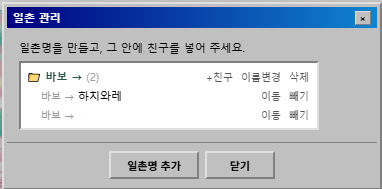
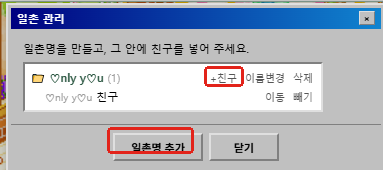
공지 캡처 교체 및 표시 추가
- 새 캡처 5장으로 교체 (중요한 버튼에 빨간 네모 표시)
- 5번 캡처를 게시판 목록으로 바꾸고 자유게시판 표시/삭제 방법 설명 추가

Claude-Session: https://claude.ai/code/session_01DkwmDqAxMrJ69m9SgcTYC1

Changed region(s): [[0.0, 0.0, 1.0, 1.0]]

diff --git a/index.html b/index.html
@@ -6224,7 +6224,7 @@
             "title": "📢 [공지] 버디버디 사용법 & 꼭 알아 둘 주의사항",
             "author": "관리자",
             "date": "2026-11-19 17:20",
-            "html": "<div class=\"notice-text\">안녕하세요, 버디버디 관리자예요 🌿\n버디버디를 쓰면서 잘 모를 만한 기능이랑 주의사항을 정리했어요.\n처음 오신 분도, 원래 쓰던 분도 한 번씩 읽어 주세요!\n\n━━━━━━━━━━━━━━━━━━━━━━\n■ 1. 비밀번호를 잊어버렸을 때를 위해 &quot;이메일 등록&quot;을 꼭 해 두세요\n━━━━━━━━━━━━━━━━━━━━━━\n▶ 메신저에서 내 사진(아바타)을 누르면 [내 정보 설정] 창이 열려요.\n▶ 아래쪽 [이메일 등록] → 이메일과 현재 비밀번호 입력 → [확인 메일 보내기]\n▶ 메일함에 온 링크를 눌러야 등록이 끝나요. (스팸함도 확인해 주세요!)\n▶ 링크를 누르고 나면 한 번 로그아웃될 수 있어요. 아이디로 다시 로그인하면 돼요.</div>\n<img class=\"notice-img\" src=\"notice/1-profile.png\" alt=\"내 정보 설정 창의 이메일 등록 버튼\">\n<div class=\"notice-text\">▶ 비밀번호를 잊으면: 로그인 화면 [비밀번호 찾기] → 아이디 입력\n   → 등록한 이메일로 온 메일에서 새 비밀번호(6자리 이상)를 정하면 끝!\n▶ 이메일을 등록하지 않았다면 관리자에게 따로 말해 주세요.\n\n━━━━━━━━━━━━━━━━━━━━━━\n■ 2. 비밀번호는 여기서만 쓰는 걸로!\n━━━━━━━━━━━━━━━━━━━━━━\n▶ 버디버디는 친구들끼리 쓰려고 직접 만든 사이트예요.\n   다른 사이트(포털, 은행, SNS 등)에서 쓰는 비밀번호는 절대 쓰지 마세요.\n▶ 이미 그런 비밀번호를 쓰고 있다면 [내 정보 설정] → [비밀번호 변경]으로 바꿔 주세요.\n▶ 비밀번호는 관리자도 볼 수 없어요. 누가 물어봐도 알려 주지 마세요.\n\n━━━━━━━━━━━━━━━━━━━━━━\n■ 3. 친구 추가 &amp; 미니홈피 가기\n━━━━━━━━━━━━━━━━━━━━━━\n▶ 메신저 [➕ 친구추가]에 친구 아이디를 넣으면 요청이 가고, 상대가 수락하면 서로 친구가 돼요.\n▶ 메신저의 [홈피] 탭에서 내 홈피와 친구들 홈피를 바로 열 수 있어요.</div>\n<img class=\"notice-img\" src=\"notice/2-messenger-hompy.png\" alt=\"메신저 홈피 탭\">\n<div class=\"notice-text\">▶ 홈피에서 메신저로 돌아갈 때는 맨 위 제목줄의 [💬 메신저] 버튼을 누르세요.\n   (휴대폰은 위쪽 메뉴 줄 맨 앞에 있어요)\n\n━━━━━━━━━━━━━━━━━━━━━━\n■ 4. 일촌 맺기 (일촌명 폴더)\n━━━━━━━━━━━━━━━━━━━━━━\n▶ 내 홈피 [홈] 화면 일촌 칸의 [+ 일촌 관리]를 누르세요.\n▶ [일촌명 추가]로 &quot;단짝&quot;, &quot;베프&quot; 같은 일촌명을 만들고,\n   그 일촌명의 [+친구]를 눌러 메신저 친구를 넣으면 돼요. (여러 명도 가능!)</div>\n<img class=\"notice-img\" src=\"notice/3-ilchon-manage.png\" alt=\"일촌 관리 창\">\n<div class=\"notice-text\">▶ 홈 화면에서 일촌명을 누르면 친구 목록이 펼쳐지고,\n   친구 이름을 누르면 그 친구 홈피로 바로 이동해요. (파도타기 🌊)\n▶ 일촌으로 넣은 친구가 방명록을 쓰면, 이름 앞에 회색으로 일촌명이 붙어요.</div>\n<img class=\"notice-img\" src=\"notice/4-home-ilchon.png\" alt=\"홈 화면 일촌 칸\">\n<div class=\"notice-text\">━━━━━━━━━━━━━━━━━━━━━━\n■ 5. 자유게시판은 모두의 게시판이에요\n━━━━━━━━━━━━━━━━━━━━━━\n▶ [게시판] → 글쓰기에서 카테고리를 &quot;자유게시판&quot;으로 고르면\n   버디버디의 모든 사람 홈피 게시판에 함께 올라가요.\n▶ 다른 카테고리로 쓴 글은 내 홈피 게시판에만 올라가요.\n▶ 자유게시판 글은 쓴 사람만 지울 수 있어요. 수정 기능은 없으니, 고치고 싶으면 지우고 다시 써 주세요.</div>\n<img class=\"notice-img\" src=\"notice/5-board-write.png\" alt=\"자유게시판 글쓰기\">\n<div class=\"notice-text\">━━━━━━━━━━━━━━━━━━━━━━\n■ 6. 꼭 알아 두세요 ⚠\n━━━━━━━━━━━━━━━━━━━━━━\n▶ 미니홈피(다이어리, 사진첩, 방명록 포함)는 &quot;서로 친구인 사람&quot;만 볼 수 있어요.\n   대신 친구라면 다이어리까지 전부 볼 수 있으니, 혼자만 보고 싶은 내용은 쓰지 마세요!\n▶ 친구를 끊으면 그 순간부터 서로의 홈피를 볼 수 없어요.\n▶ 주소, 전화번호, 학교 같은 개인정보는 올리지 않는 걸 추천해요.\n▶ 사진은 올릴 때 자동으로 작게 줄여서 저장돼요.\n   무료로 운영 중이라 저장 공간이 넉넉하지 않으니, 너무 많이 올리지 말아 주세요 🙏\n▶ 주크박스에 내 컴퓨터 음악 파일을 올리면, 그 창에서만 재생되고 저장되지 않아요.\n▶ 휴대폰에서는 다이어리 카테고리를 꾹 길게 누르면 이름 변경/삭제 메뉴가 나와요.\n▶ 화면이 이상하거나 새 기능이 안 보이면 새로고침(PC는 Ctrl + F5)을 해 주세요.\n\n━━━━━━━━━━━━━━━━━━━━━━\n■ 주소 모음\n━━━━━━━━━━━━━━━━━━━━━━\n💻 PC 메신저: <a href=\"https://k2w0.github.io/buddybudddy/\" target=\"_blank\" rel=\"noopener\">https://k2w0.github.io/buddybudddy/</a>\n📱 휴대폰 메신저: <a href=\"https://k2w0.github.io/buddy-mobile/\" target=\"_blank\" rel=\"noopener\">https://k2w0.github.io/buddy-mobile/</a>\n\n궁금한 점이나 고장 난 곳은 관리자에게 메신저로 알려 주세요.\n즐거운 버디버디 되세요! 🌿</div>"
+            "html": "<div class=\"notice-text\">안녕하세요, 버디버디 관리자예요 🌿\n버디버디를 쓰면서 잘 모를 만한 기능이랑 주의사항을 정리했어요.\n처음 오신 분도, 원래 쓰던 분도 한 번씩 읽어 주세요!\n\n━━━━━━━━━━━━━━━━━━━━━━\n■ 1. 비밀번호를 잊어버렸을 때를 위해 &quot;이메일 등록&quot;을 꼭 해 두세요\n━━━━━━━━━━━━━━━━━━━━━━\n▶ 메신저에서 내 사진(아바타)을 누르면 [내 정보 설정] 창이 열려요.\n▶ 아래쪽 [이메일 등록] → 이메일과 현재 비밀번호 입력 → [확인 메일 보내기]\n▶ 메일함에 온 링크를 눌러야 등록이 끝나요. (스팸함도 확인해 주세요!)\n▶ 링크를 누르고 나면 한 번 로그아웃될 수 있어요. 아이디로 다시 로그인하면 돼요.</div>\n<img class=\"notice-img\" src=\"notice/1-profile.png\" alt=\"내 정보 설정 창의 이메일 등록 버튼\">\n<div class=\"notice-text\">▶ 비밀번호를 잊으면: 로그인 화면 [비밀번호 찾기] → 아이디 입력\n   → 등록한 이메일로 온 메일에서 새 비밀번호(6자리 이상)를 정하면 끝!\n▶ 이메일을 등록하지 않았다면 관리자에게 따로 말해 주세요.\n\n━━━━━━━━━━━━━━━━━━━━━━\n■ 2. 비밀번호는 여기서만 쓰는 걸로!\n━━━━━━━━━━━━━━━━━━━━━━\n▶ 버디버디는 친구들끼리 쓰려고 직접 만든 사이트예요.\n   다른 사이트(포털, 은행, SNS 등)에서 쓰는 비밀번호는 절대 쓰지 마세요.\n▶ 이미 그런 비밀번호를 쓰고 있다면 [내 정보 설정] → [비밀번호 변경]으로 바꿔 주세요.\n▶ 비밀번호는 관리자도 볼 수 없어요. 누가 물어봐도 알려 주지 마세요.\n\n━━━━━━━━━━━━━━━━━━━━━━\n■ 3. 친구 추가 &amp; 미니홈피 가기\n━━━━━━━━━━━━━━━━━━━━━━\n▶ 메신저 [➕ 친구추가]에 친구 아이디를 넣으면 요청이 가고, 상대가 수락하면 서로 친구가 돼요.\n▶ 메신저의 [홈피] 탭에서 내 홈피와 친구들 홈피를 바로 열 수 있어요.</div>\n<img class=\"notice-img\" src=\"notice/2-messenger-hompy.png\" alt=\"메신저 홈피 탭\">\n<div class=\"notice-text\">▶ 홈피에서 메신저로 돌아갈 때는 맨 위 제목줄의 [💬 메신저] 버튼을 누르세요.\n   (휴대폰은 위쪽 메뉴 줄 맨 앞에 있어요)\n\n━━━━━━━━━━━━━━━━━━━━━━\n■ 4. 일촌 맺기 (일촌명 폴더)\n━━━━━━━━━━━━━━━━━━━━━━\n▶ 내 홈피 [홈] 화면 일촌 칸의 [+ 일촌 관리]를 누르세요.\n▶ [일촌명 추가]로 &quot;단짝&quot;, &quot;베프&quot; 같은 일촌명을 만들고,\n   그 일촌명의 [+친구]를 눌러 메신저 친구를 넣으면 돼요. (여러 명도 가능!)</div>\n<img class=\"notice-img\" src=\"notice/3-ilchon-manage.png\" alt=\"일촌 관리 창의 일촌명 추가와 +친구\">\n<div class=\"notice-text\">▶ 홈 화면에서 일촌명을 누르면 친구 목록이 펼쳐지고,\n   친구 이름을 누르면 그 친구 홈피로 바로 이동해요. (파도타기 🌊)\n▶ 일촌으로 넣은 친구가 방명록을 쓰면, 이름 앞에 회색으로 일촌명이 붙어요.</div>\n<img class=\"notice-img\" src=\"notice/4-home-ilchon.png\" alt=\"홈 화면 일촌 칸\">\n<div class=\"notice-text\">━━━━━━━━━━━━━━━━━━━━━━\n■ 5. 자유게시판은 모두의 게시판이에요\n━━━━━━━━━━━━━━━━━━━━━━\n▶ [게시판] → [글쓰기]에서 카테고리를 &quot;자유게시판&quot;으로 고르면\n   버디버디의 모든 사람 홈피 게시판에 함께 올라가요.\n▶ 목록에서 초록색 [자유게시판] 표시가 붙은 글이 모두가 보는 글이에요.\n▶ 다른 카테고리로 쓴 글은 내 홈피 게시판에만 올라가요.\n▶ 글을 지우려면 내 글 앞의 칸을 체크하고 [삭제]를 누르세요.\n   자유게시판 글은 쓴 사람만 지울 수 있고, 수정 기능은 없으니 고치고 싶으면 지우고 다시 써 주세요.</div>\n<img class=\"notice-img\" src=\"notice/5-board-list.png\" alt=\"게시판 목록의 자유게시판 표시와 글쓰기, 삭제 버튼\">\n<div class=\"notice-text\">━━━━━━━━━━━━━━━━━━━━━━\n■ 6. 꼭 알아 두세요 ⚠\n━━━━━━━━━━━━━━━━━━━━━━\n▶ 미니홈피(다이어리, 사진첩, 방명록 포함)는 &quot;서로 친구인 사람&quot;만 볼 수 있어요.\n   대신 친구라면 다이어리까지 전부 볼 수 있으니, 혼자만 보고 싶은 내용은 쓰지 마세요!\n▶ 친구를 끊으면 그 순간부터 서로의 홈피를 볼 수 없어요.\n▶ 주소, 전화번호, 학교 같은 개인정보는 올리지 않는 걸 추천해요.\n▶ 사진은 올릴 때 자동으로 작게 줄여서 저장돼요.\n   무료로 운영 중이라 저장 공간이 넉넉하지 않으니, 너무 많이 올리지 말아 주세요 🙏\n▶ 주크박스에 내 컴퓨터 음악 파일을 올리면, 그 창에서만 재생되고 저장되지 않아요.\n▶ 휴대폰에서는 다이어리 카테고리를 꾹 길게 누르면 이름 변경/삭제 메뉴가 나와요.\n▶ 화면이 이상하거나 새 기능이 안 보이면 새로고침(PC는 Ctrl + F5)을 해 주세요.\n\n━━━━━━━━━━━━━━━━━━━━━━\n■ 주소 모음\n━━━━━━━━━━━━━━━━━━━━━━\n💻 PC 메신저: <a href=\"https://k2w0.github.io/buddybudddy/\" target=\"_blank\" rel=\"noopener\">https://k2w0.github.io/buddybudddy/</a>\n📱 휴대폰 메신저: <a href=\"https://k2w0.github.io/buddy-mobile/\" target=\"_blank\" rel=\"noopener\">https://k2w0.github.io/buddy-mobile/</a>\n\n궁금한 점이나 고장 난 곳은 관리자에게 메신저로 알려 주세요.\n즐거운 버디버디 되세요! 🌿</div>"
         };
 
         let isViewingNotice = false;
